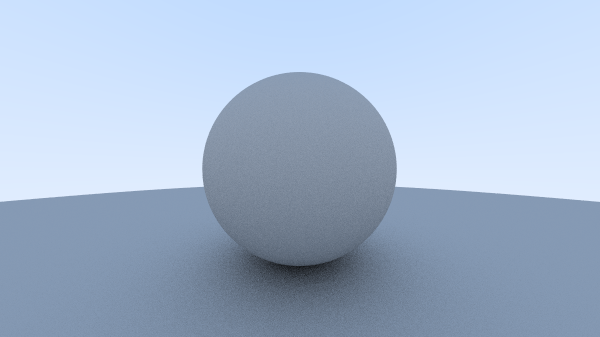
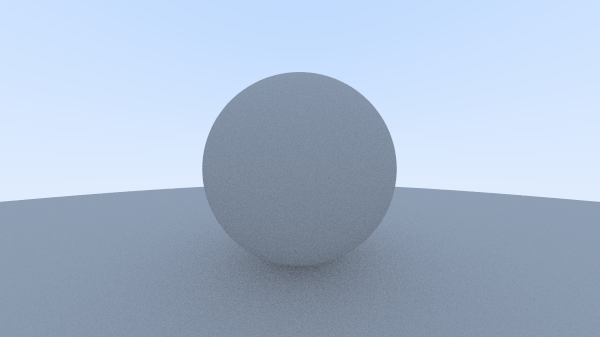
lambertian material

Changed region(s): [[0.36, 0.7418, 0.63, 0.9496]]

diff --git a/Reza_Raytracer/Vec3.h b/Reza_Raytracer/Vec3.h
@@ -82,25 +82,7 @@ public:
 using Point3 = Vec3;   // 3D point
 using Color  = Vec3;    // RGB color
 
-inline Vec3 RandomVec3()
-{
-    return Vec3(RandomDouble(), RandomDouble(), RandomDouble());
-}
 
-inline Vec3 RandomVec3(double min, double max)
-{
-    return Vec3(RandomDouble(min, max), RandomDouble(min, max), RandomDouble(min, max));
-}
-
-inline Vec3 RandomVec3InUnitSphere()
-{
-    while (true) 
-    {
-        auto p = RandomVec3(-1, 1);
-        if (p.LengthSquared() >= 1) continue;
-        return p;
-    }
-}
 
 // Vec3 Utility Functions
 
@@ -156,6 +138,44 @@ inline Vec3 Cross(const Vec3& u, const Vec3& v)
 inline Vec3 UnitVector(Vec3 v)
 {
     return v / v.Length();
+}
+
+inline Vec3 RandomVec3()
+{
+    return Vec3(RandomDouble(), RandomDouble(), RandomDouble());
+}
+
+inline Vec3 RandomVec3(double min, double max)
+{
+    return Vec3(RandomDouble(min, max), RandomDouble(min, max), RandomDouble(min, max));
+}
+
+inline Vec3 RandomVec3InUnitSphere()
+{
+    while (true)
+    {
+        auto p = RandomVec3(-1, 1);
+        if (p.LengthSquared() >= 1) continue;
+        return p;
+    }
+}
+
+inline Vec3 RandomUnitVector()
+{
+    return UnitVector(RandomVec3InUnitSphere());
+}
+
+inline Vec3 RandomVec3InHemisphere(const Vec3& normal)
+{
+    Vec3 in_unit_sphere = RandomVec3InUnitSphere();
+    if (Dot(in_unit_sphere, normal) > 0.0) // In the same hemisphere as the normal
+    {
+        return in_unit_sphere;
+    }
+    //else
+    //{
+    return -in_unit_sphere;
+    //}
 }
 
 #endif

diff --git a/Reza_Raytracer/main.cpp b/Reza_Raytracer/main.cpp
@@ -21,7 +21,11 @@ Color RayColor(const Ray3& r, const HittableList& world, int depth)
 	// t_min = 0.001 is used to remove shadow acne
 	if (world.Hit(r, 0.001, infinity, rec))
 	{
-		Point3 target = rec.p + rec.normal + RandomVec3InUnitSphere();
+		// lighter shadow
+		//Point3 target = rec.p + RandomVec3InHemisphere(rec.normal);
+
+		// better shadow
+		Point3 target = rec.p + rec.normal + RandomUnitVector();
 
 		// Recursive
 		return 0.5 * RayColor(Ray3(rec.p, target - rec.p), world, depth - 1);
